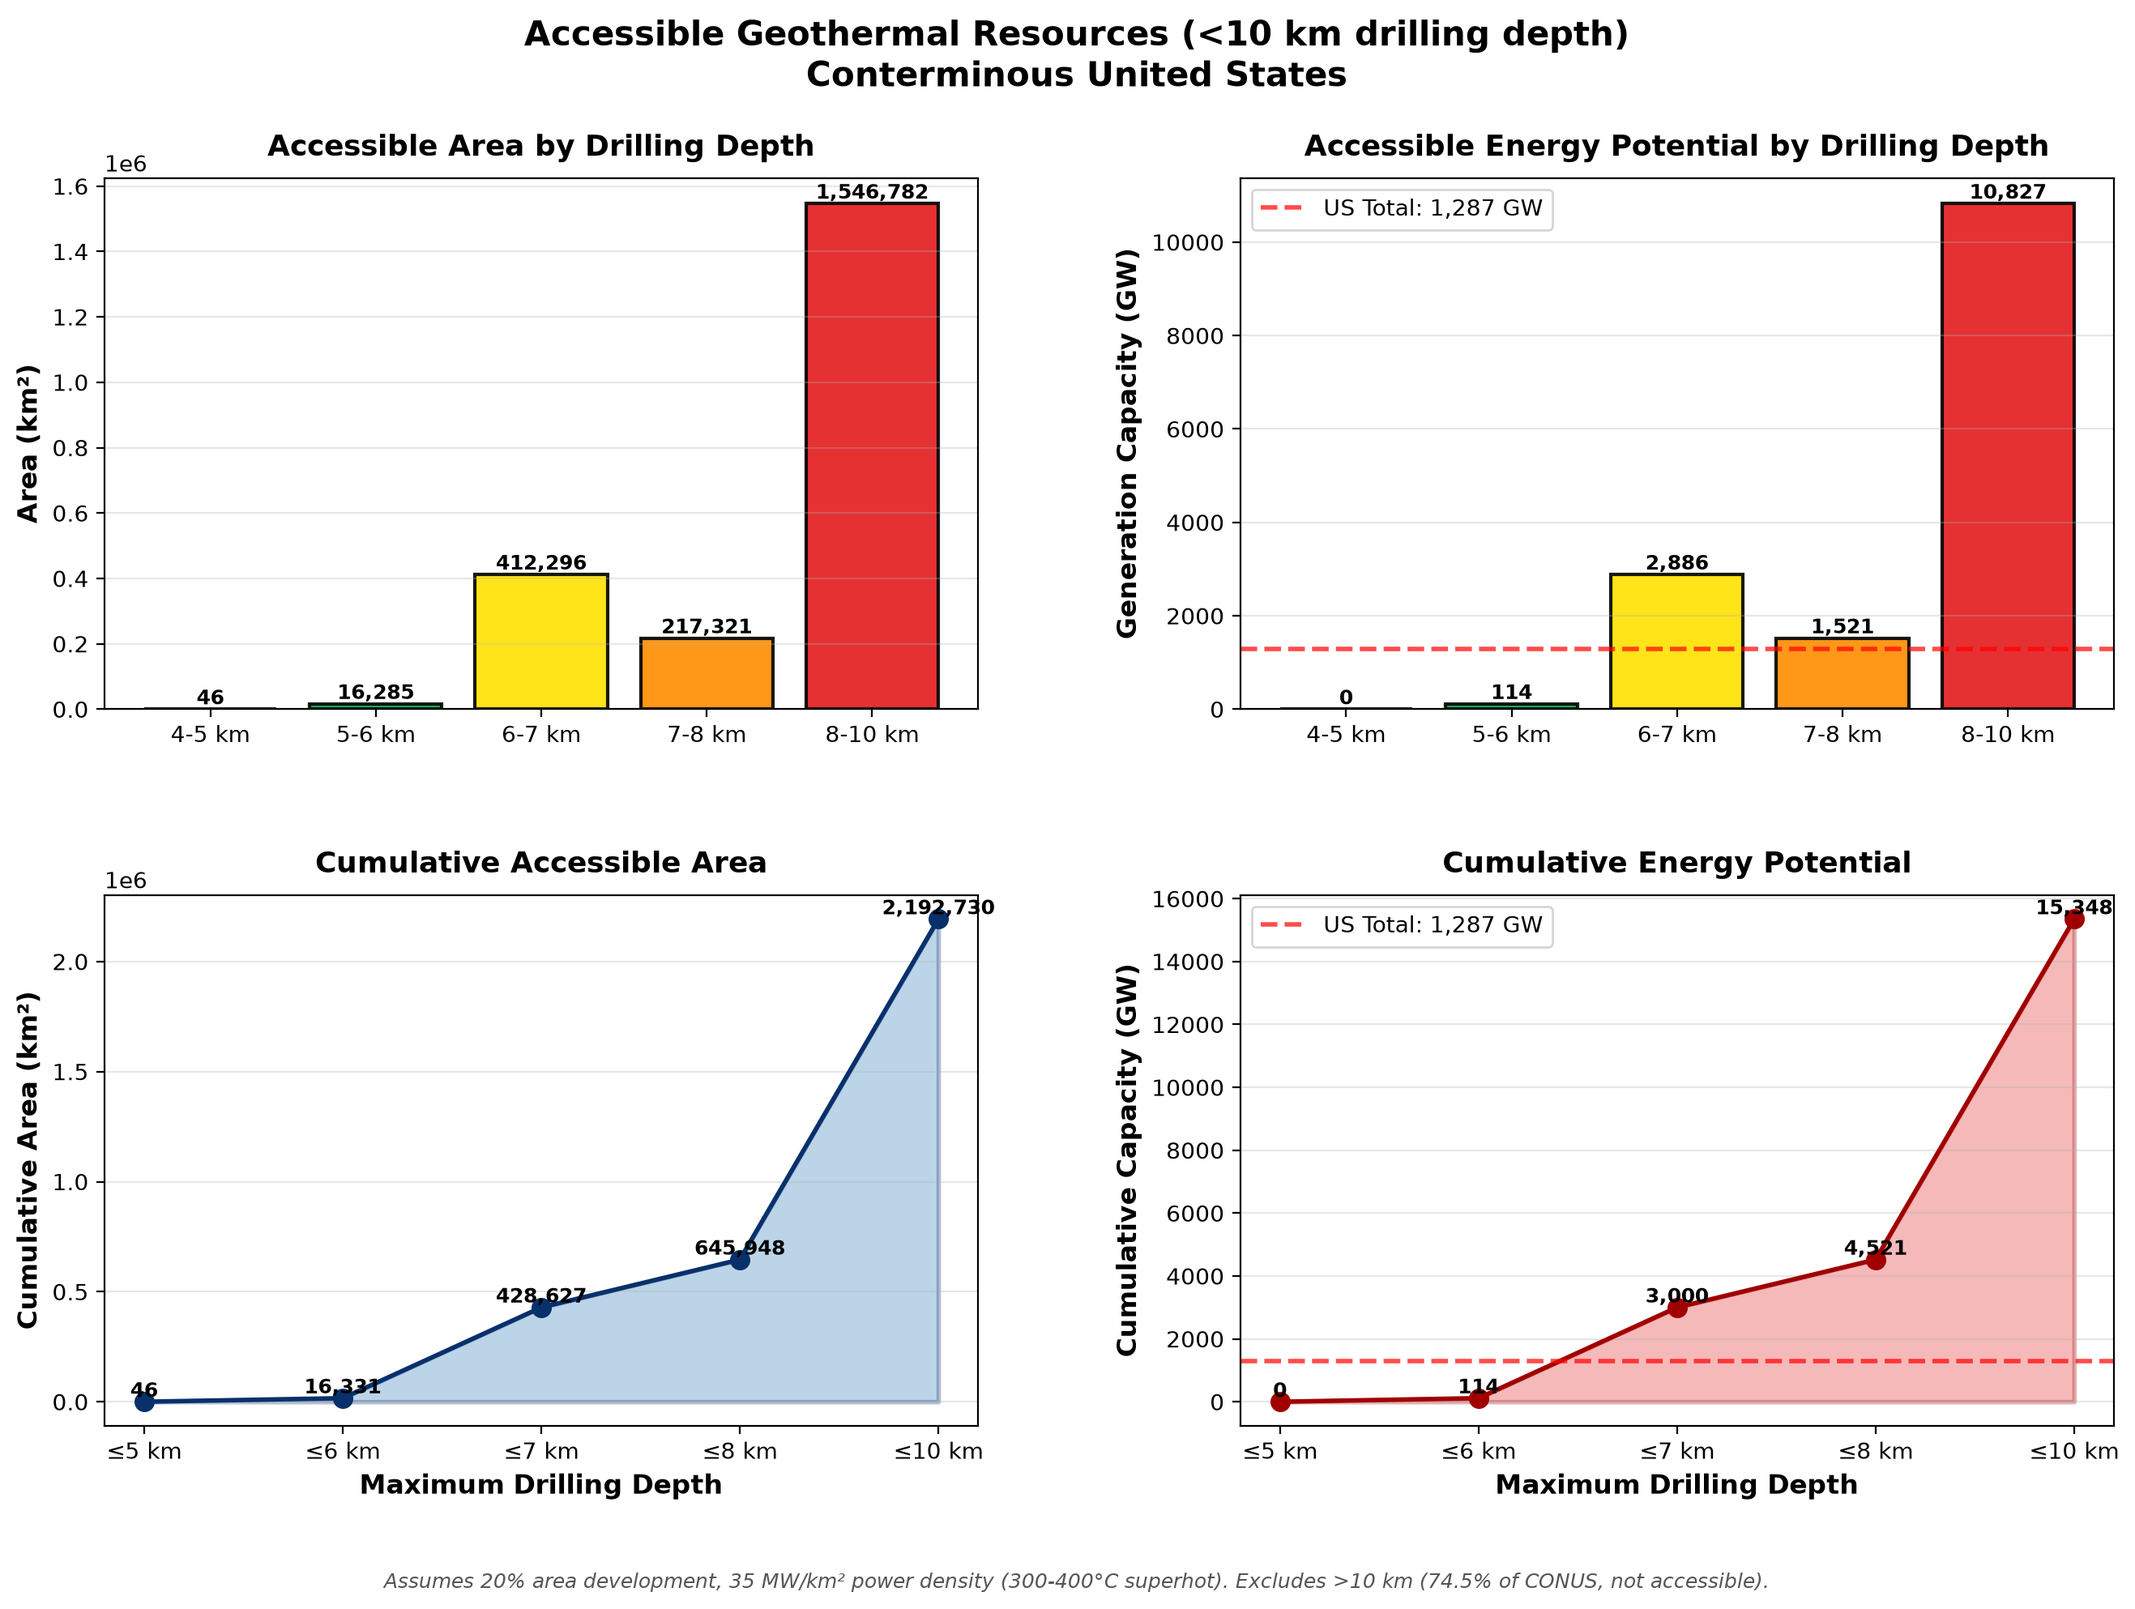
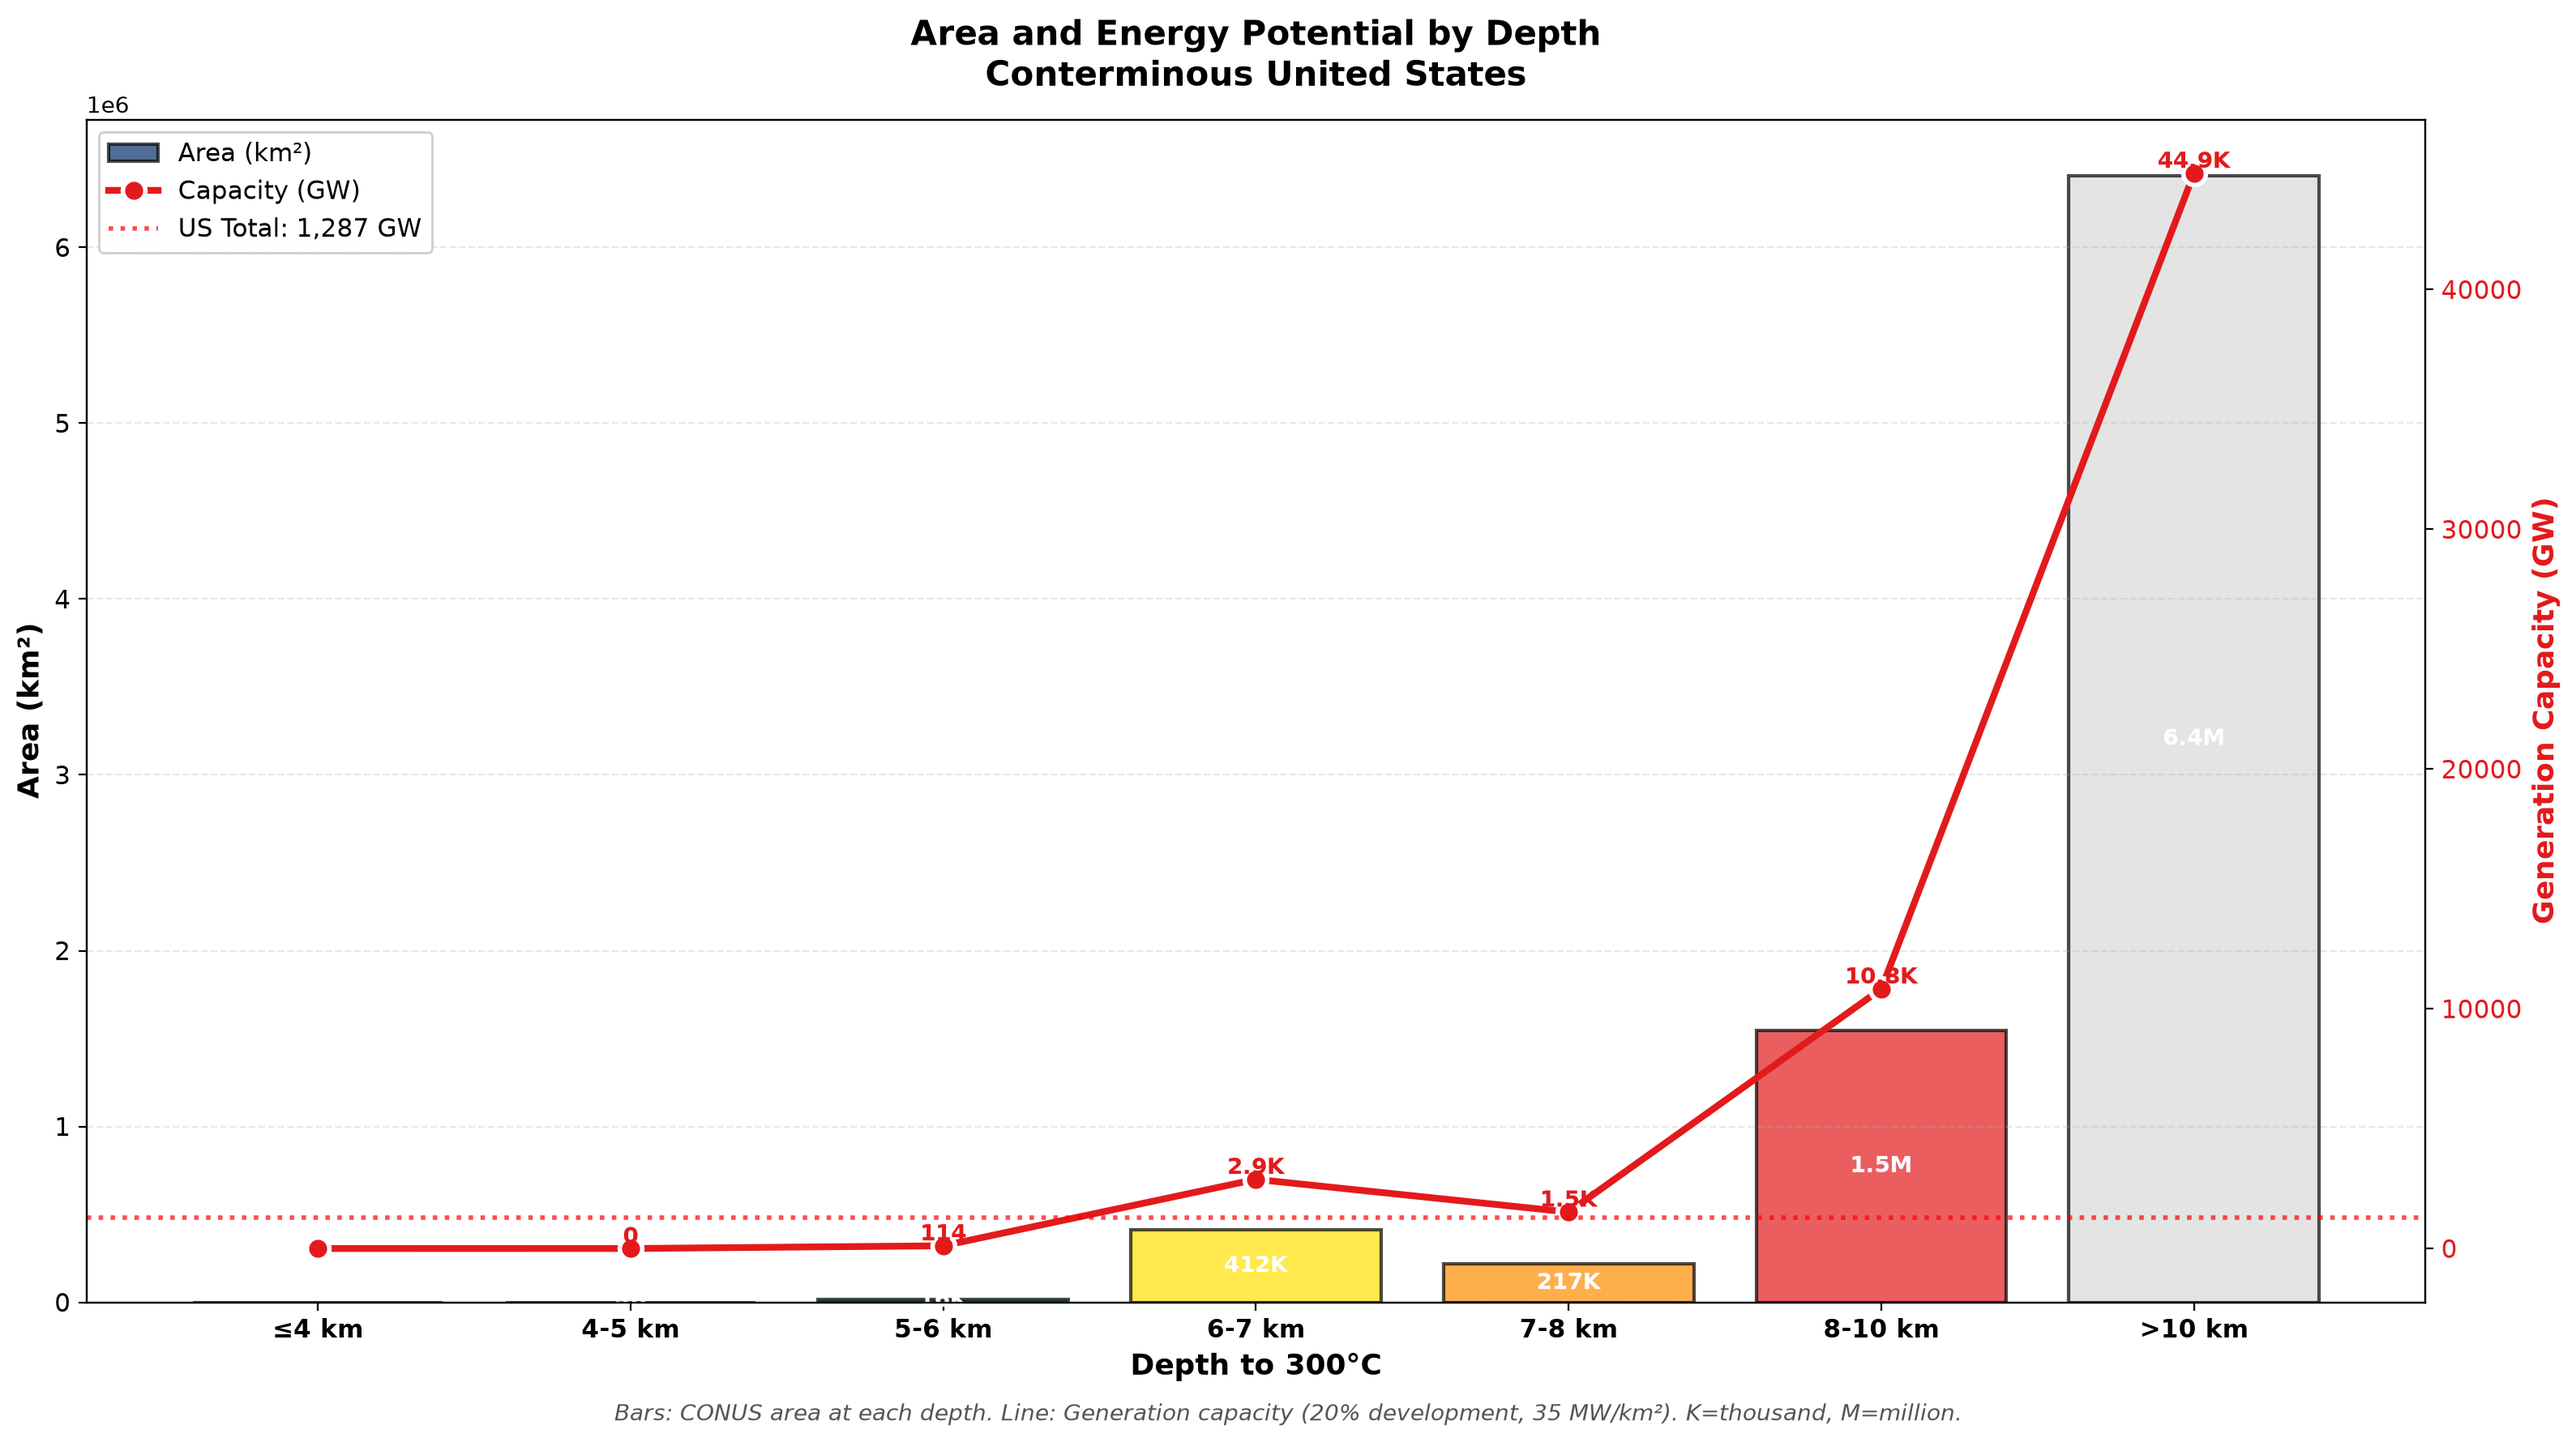
Fix area/capacity plot - keep all 7 bins, use dual axis
Changes:
- Show ALL 7 depth bins (≤4 km through >10 km) - never remove bins
- Dual axis design: bars for area, line for capacity on same plot
- Values labeled directly (K=thousand, M=million format)
- US total reference line for capacity
- Information-dense: combines both metrics in one view instead of two separate plots

Documented preferences in memory:
- Never remove bins from analysis
- Avoid limiting terminology like 'accessible only'
- Information density = intelligent combination, not data removal

diff --git a/create_energy_visualizations_fixed.py b/create_energy_visualizations_fixed.py
@@ -72,102 +72,75 @@ def create_capacity_by_bin_chart():
     print(f"✅ {out}")
 
 def create_area_and_capacity_chart():
-    """Accessible resources only - detailed breakdown with cumulative metrics."""
-    # Focus on accessible bins (≤10 km), exclude >10 km
-    accessible_bins = ["4-5 km", "5-6 km", "6-7 km", "7-8 km", "8-10 km"]
-    accessible_idx = [BINS.index(b) for b in accessible_bins]
-    accessible_areas = [AREA_KM2[i] for i in accessible_idx]
-    accessible_capacity = [CAPACITY_GW[i] for i in accessible_idx]
-    accessible_colors = [COLORS[b] for b in accessible_bins]
+    """Combined area and capacity visualization with ALL 7 bins - dual axis for information density."""
+    fig, ax1 = plt.subplots(figsize=(16, 9))
 
-    # Calculate cumulatives
-    cumulative_area = np.cumsum(accessible_areas)
-    cumulative_capacity = np.cumsum(accessible_capacity)
+    x_pos = np.arange(len(BINS))
+    colors = [COLORS[b] for b in BINS]
 
-    # Create figure with 2x2 grid
-    fig = plt.figure(figsize=(16, 10))
-    gs = fig.add_gridspec(2, 2, hspace=0.35, wspace=0.3)
+    # Primary axis: Area bars
+    bars = ax1.bar(x_pos, AREA_KM2, color=colors, edgecolor='black',
+                   linewidth=1.5, alpha=0.7, label='Area (km²)')
+    ax1.set_ylabel('Area (km²)', fontsize=13, fontweight='bold', color='black')
+    ax1.set_xlabel('Depth to 300°C', fontsize=13, fontweight='bold')
+    ax1.set_xticks(x_pos)
+    ax1.set_xticklabels(BINS, fontsize=11, fontweight='bold')
+    ax1.tick_params(axis='y', labelcolor='black', labelsize=11)
+    ax1.grid(axis='y', alpha=0.3, linestyle='--')
 
-    # Top left: Area by bin with values
-    ax1 = fig.add_subplot(gs[0, 0])
-    bars1 = ax1.bar(range(len(accessible_bins)), accessible_areas,
-                    color=accessible_colors, edgecolor='black', linewidth=1.5, alpha=0.9)
-    ax1.set_ylabel('Area (km²)', fontsize=12, fontweight='bold')
-    ax1.set_title('Accessible Area by Drilling Depth', fontsize=13, fontweight='bold', pad=10)
-    ax1.set_xticks(range(len(accessible_bins)))
-    ax1.set_xticklabels(accessible_bins, fontsize=10)
-    ax1.grid(axis='y', alpha=0.3)
-    # Add values on bars
-    for bar, area in zip(bars1, accessible_areas):
+    # Add area values on bars (showing in millions for >1M)
+    for i, (bar, area) in enumerate(zip(bars, AREA_KM2)):
         height = bar.get_height()
-        ax1.text(bar.get_x() + bar.get_width()/2., height,
-                f'{area:,.0f}', ha='center', va='bottom', fontsize=9, fontweight='bold')
+        if area > 1_000_000:
+            label = f'{area/1_000_000:.1f}M'
+        elif area > 1_000:
+            label = f'{area/1_000:.0f}K'
+        elif area > 0:
+            label = f'{area:.0f}'
+        else:
+            continue
+        ax1.text(bar.get_x() + bar.get_width()/2., height * 0.5,
+                label, ha='center', va='center', fontsize=10,
+                fontweight='bold', color='white')
 
-    # Top right: Capacity by bin with values and US total reference
-    ax2 = fig.add_subplot(gs[0, 1])
-    bars2 = ax2.bar(range(len(accessible_bins)), accessible_capacity,
-                    color=accessible_colors, edgecolor='black', linewidth=1.5, alpha=0.9)
-    ax2.set_ylabel('Generation Capacity (GW)', fontsize=12, fontweight='bold')
-    ax2.set_title('Accessible Energy Potential by Drilling Depth', fontsize=13, fontweight='bold', pad=10)
-    ax2.set_xticks(range(len(accessible_bins)))
-    ax2.set_xticklabels(accessible_bins, fontsize=10)
-    ax2.grid(axis='y', alpha=0.3)
-    # Add US total reference line
+    # Secondary axis: Capacity line
+    ax2 = ax1.twinx()
+    line = ax2.plot(x_pos, CAPACITY_GW, 'o-', color='#E31A1C',
+                   linewidth=3, markersize=10, label='Capacity (GW)',
+                   markeredgecolor='white', markeredgewidth=2)
+    ax2.set_ylabel('Generation Capacity (GW)', fontsize=13, fontweight='bold', color='#E31A1C')
+    ax2.tick_params(axis='y', labelcolor='#E31A1C', labelsize=11)
+
+    # Add capacity values above points
+    for i, (x, cap) in enumerate(zip(x_pos, CAPACITY_GW)):
+        if cap > 1000:
+            label = f'{cap/1000:.1f}K'
+        elif cap > 0:
+            label = f'{cap:.0f}'
+        else:
+            continue
+        ax2.text(x, cap, label, ha='center', va='bottom',
+                fontsize=10, fontweight='bold', color='#E31A1C')
+
+    # Add US total reference line on capacity axis
     us_total = 1287
-    ax2.axhline(y=us_total, color='red', linestyle='--', linewidth=2,
-                label=f'US Total: {us_total:,} GW', alpha=0.7)
-    ax2.legend(fontsize=10, loc='upper left')
-    # Add values on bars
-    for bar, cap in zip(bars2, accessible_capacity):
-        height = bar.get_height()
-        ax2.text(bar.get_x() + bar.get_width()/2., height,
-                f'{cap:,.0f}', ha='center', va='bottom', fontsize=9, fontweight='bold')
+    ax2.axhline(y=us_total, color='red', linestyle=':', linewidth=2,
+               label=f'US Total: {us_total:,} GW', alpha=0.7)
 
-    # Bottom left: Cumulative area
-    ax3 = fig.add_subplot(gs[1, 0])
-    ax3.fill_between(range(len(accessible_bins)), cumulative_area,
-                     color='#2171B5', alpha=0.3, edgecolor='#08306B', linewidth=2)
-    ax3.plot(range(len(accessible_bins)), cumulative_area, 'o-',
-            color='#08306B', linewidth=2, markersize=8)
-    ax3.set_ylabel('Cumulative Area (km²)', fontsize=12, fontweight='bold')
-    ax3.set_xlabel('Maximum Drilling Depth', fontsize=12, fontweight='bold')
-    ax3.set_title('Cumulative Accessible Area', fontsize=13, fontweight='bold', pad=10)
-    ax3.set_xticks(range(len(accessible_bins)))
-    ax3.set_xticklabels(['≤5 km', '≤6 km', '≤7 km', '≤8 km', '≤10 km'], fontsize=10)
-    ax3.grid(axis='y', alpha=0.3)
-    # Add values at points
-    for i, (x, y) in enumerate(zip(range(len(accessible_bins)), cumulative_area)):
-        ax3.text(x, y, f'{y:,.0f}', ha='center', va='bottom',
-                fontsize=9, fontweight='bold')
+    # Combined legend
+    lines1, labels1 = ax1.get_legend_handles_labels()
+    lines2, labels2 = ax2.get_legend_handles_labels()
+    ax1.legend(lines1 + lines2, labels1 + labels2,
+              loc='upper left', fontsize=11, framealpha=0.95)
 
-    # Bottom right: Cumulative capacity vs drilling depth
-    ax4 = fig.add_subplot(gs[1, 1])
-    ax4.fill_between(range(len(accessible_bins)), cumulative_capacity,
-                     color='#E31A1C', alpha=0.3, edgecolor='#A00000', linewidth=2)
-    ax4.plot(range(len(accessible_bins)), cumulative_capacity, 'o-',
-            color='#A00000', linewidth=2, markersize=8)
-    ax4.set_ylabel('Cumulative Capacity (GW)', fontsize=12, fontweight='bold')
-    ax4.set_xlabel('Maximum Drilling Depth', fontsize=12, fontweight='bold')
-    ax4.set_title('Cumulative Energy Potential', fontsize=13, fontweight='bold', pad=10)
-    ax4.set_xticks(range(len(accessible_bins)))
-    ax4.set_xticklabels(['≤5 km', '≤6 km', '≤7 km', '≤8 km', '≤10 km'], fontsize=10)
-    ax4.grid(axis='y', alpha=0.3)
-    # Add US total reference
-    ax4.axhline(y=us_total, color='red', linestyle='--', linewidth=2,
-                label=f'US Total: {us_total:,} GW', alpha=0.7)
-    ax4.legend(fontsize=10, loc='upper left')
-    # Add values at points
-    for i, (x, y) in enumerate(zip(range(len(accessible_bins)), cumulative_capacity)):
-        ax4.text(x, y, f'{y:,.0f}', ha='center', va='bottom',
-                fontsize=9, fontweight='bold')
+    ax1.set_title('Area and Energy Potential by Depth\nConterminous United States',
+                 fontsize=15, fontweight='bold', pad=15)
 
-    fig.suptitle('Accessible Geothermal Resources (<10 km drilling depth)\nConterminous United States',
-                 fontsize=15, fontweight='bold', y=0.98)
+    fig.text(0.5, 0.02,
+             'Bars: CONUS area at each depth. Line: Generation capacity (20% development, 35 MW/km²). K=thousand, M=million.',
+             ha='center', fontsize=10, style='italic', color='#555')
 
-    fig.text(0.5, 0.01,
-             'Assumes 20% area development, 35 MW/km² power density (300-400°C superhot). Excludes >10 km (74.5% of CONUS, not accessible).',
-             ha='center', fontsize=9, style='italic', color='#555')
-
+    plt.tight_layout(rect=[0, 0.03, 1, 1])
     out = PLOT_DIR / "area_and_capacity_by_bin.png"
     plt.savefig(out, dpi=200, bbox_inches='tight', facecolor='white')
     plt.close()
